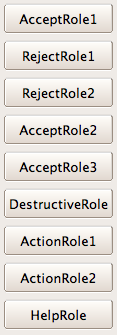
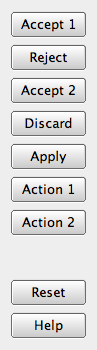
p4i integration Integrate 227571 from 4.2 to main: Fixes:    Update button box stuff for KDE. Details:  From looking at various things it seems that we need to add a couple of more roles to make things jive more with KDE. In the general case we should be pretty good. Updated docs (screenshots) and t
[git-p4: depot-paths = "//depot/qt/main/": change = 227572]

diff --git a/src/gui/widgets/qdialogbuttonbox.cpp b/src/gui/widgets/qdialogbuttonbox.cpp
@@ -113,20 +113,18 @@
 
 enum { AcceptRole = QDialogButtonBox::AcceptRole, RejectRole = QDialogButtonBox::RejectRole,
        DestructiveRole = QDialogButtonBox::DestructiveRole,
-       ActionRole = QDialogButtonBox::ActionRole, HelpRole = QDialogButtonBox::HelpRole, AlternateRole,
-       Stretch = 0x10000000, EOL = 0x40000000, Reverse = 0x80000000 };
+       ActionRole = QDialogButtonBox::ActionRole, HelpRole = QDialogButtonBox::HelpRole,
+       ApplyRole = QDialogButtonBox::ApplyRole, ResetRole = QDialogButtonBox::ResetRole,
+       Stretch = 0x10000000,  AlternateRole = 0x20000000, EOL = 0x40000000, Reverse = 0x80000000 };
 
 static QDialogButtonBox::ButtonRole roleFor(QDialogButtonBox::StandardButton button)
 {
     switch (button) {
     case QDialogButtonBox::Ok:
-        return QDialogButtonBox::AcceptRole;
     case QDialogButtonBox::Save:
-        return QDialogButtonBox::AcceptRole;
     case QDialogButtonBox::Open:
         return QDialogButtonBox::AcceptRole;
     case QDialogButtonBox::Cancel:
-        return QDialogButtonBox::RejectRole;
     case QDialogButtonBox::Close:
         return QDialogButtonBox::RejectRole;
     case QDialogButtonBox::Discard:
@@ -134,66 +132,65 @@ static QDialogButtonBox::ButtonRole roleFor(QDialogButtonBox::StandardButton but
     case QDialogButtonBox::Help:
         return QDialogButtonBox::HelpRole;
     case QDialogButtonBox::Apply:
-        return QDialogButtonBox::ActionRole;
+        return QDialogButtonBox::ApplyRole;
+    case QDialogButtonBox::RestoreDefaults:
+        return QDialogButtonBox::ResetRole;
     case QDialogButtonBox::Reset:
-        return QDialogButtonBox::ActionRole;
+        return QDialogButtonBox::ResetRole;
     case QDialogButtonBox::Yes:
-        return QDialogButtonBox::AcceptRole;
     case QDialogButtonBox::YesToAll:
         return QDialogButtonBox::AcceptRole;
     case QDialogButtonBox::No:
-        return QDialogButtonBox::RejectRole;
     case QDialogButtonBox::NoToAll:
         return QDialogButtonBox::RejectRole;
     case QDialogButtonBox::SaveAll:
-        return QDialogButtonBox::AcceptRole;
     case QDialogButtonBox::Abort:
-        return QDialogButtonBox::AcceptRole;
     case QDialogButtonBox::Retry:
         return QDialogButtonBox::AcceptRole;
     case QDialogButtonBox::Ignore:
         return QDialogButtonBox::RejectRole;
-    default:
-        return QDialogButtonBox::InvalidRole;
+    case QDialogButtonBox::NoButton:
+        ;
     }
+    return QDialogButtonBox::InvalidRole;
 }
 
-static const int layouts[2][5][9] =
+static const int layouts[2][5][11] =
 {
     // Qt::Horizontal
     {
         // WinLayout
-        { Stretch, AcceptRole, AlternateRole, DestructiveRole, RejectRole, ActionRole, HelpRole, EOL, EOL },
+        { ResetRole, Stretch, AcceptRole, AlternateRole, DestructiveRole, RejectRole, ApplyRole, ActionRole, HelpRole, EOL, EOL },
 
         // MacLayout
-        { HelpRole, ActionRole, Stretch, DestructiveRole | Reverse, AlternateRole | Reverse, RejectRole | Reverse, AcceptRole | Reverse, EOL },
+        { HelpRole, ResetRole, ApplyRole, ActionRole, Stretch, DestructiveRole | Reverse, AlternateRole | Reverse, RejectRole | Reverse, AcceptRole | Reverse, EOL },
 
         // KdeLayout
-        { HelpRole, DestructiveRole, Stretch, ActionRole, AcceptRole, AlternateRole, RejectRole, EOL, EOL },
+        { HelpRole, ResetRole, Stretch, ActionRole, AcceptRole, AlternateRole, ApplyRole, DestructiveRole, RejectRole, EOL, EOL },
 
         // GnomeLayout
-        { HelpRole, Stretch, ActionRole | Reverse, DestructiveRole | Reverse, AlternateRole | Reverse, RejectRole | Reverse, AcceptRole | Reverse, EOL, EOL },
+        { HelpRole, ResetRole, Stretch, ActionRole | Reverse, ApplyRole | Reverse, DestructiveRole | Reverse, AlternateRole | Reverse, RejectRole | Reverse, AcceptRole | Reverse, EOL, EOL },
 
         // Mac modeless
-        { ActionRole, Stretch, HelpRole, EOL, EOL, EOL, EOL, EOL, EOL }
+        { ResetRole, ApplyRole, ActionRole, Stretch, HelpRole, EOL, EOL, EOL, EOL, EOL, EOL }
     },
 
     // Qt::Vertical
     {
         // WinLayout
-        { ActionRole, AcceptRole, AlternateRole, DestructiveRole, RejectRole, HelpRole, Stretch, EOL, EOL },
+        { ActionRole, AcceptRole, AlternateRole, DestructiveRole, RejectRole, ApplyRole, ResetRole, HelpRole, Stretch, EOL, EOL },
 
         // MacLayout
-        { AcceptRole, RejectRole, AlternateRole, DestructiveRole, Stretch, ActionRole, HelpRole, EOL },
+        { AcceptRole, RejectRole, AlternateRole, DestructiveRole, Stretch, ActionRole, ApplyRole, ResetRole, HelpRole, EOL },
 
         // KdeLayout
-        { ActionRole, Stretch, AcceptRole, AlternateRole, DestructiveRole, RejectRole, HelpRole, EOL, EOL },
+        { AcceptRole, AlternateRole, ApplyRole, ActionRole, Stretch, ResetRole, DestructiveRole, RejectRole, HelpRole, EOL, EOL },
 
         // GnomeLayout
-        { AcceptRole, RejectRole, AlternateRole, DestructiveRole, ActionRole, Stretch, HelpRole, EOL, EOL },
+        { AcceptRole, RejectRole, AlternateRole, DestructiveRole, ApplyRole, ActionRole, Stretch, ResetRole, HelpRole, EOL, EOL },
 
         // Mac modeless
-        { ActionRole, Stretch, HelpRole, EOL, EOL, EOL, EOL, EOL, EOL }
+        { ActionRole, ApplyRole, ResetRole, Stretch, HelpRole, EOL, EOL, EOL, EOL, EOL, EOL }
     }
 };
 
@@ -322,6 +319,8 @@ void QDialogButtonBoxPrivate::layoutButtons()
         case RejectRole:
         case DestructiveRole:
         case ActionRole:
+        case ApplyRole:
+        case ResetRole:
         case HelpRole: {
             const QList<QAbstractButton *> &list = buttonLists[role];
 
@@ -428,9 +427,11 @@ QPushButton *QDialogButtonBoxPrivate::createButton(QDialogButtonBox::StandardBut
     case QDialogButtonBox::Ignore:
         buttonText = QDialogButtonBox::tr("Ignore");
         break;
-    default:
-        icon = 0;
+    case QDialogButtonBox::RestoreDefaults:
+        buttonText = QDialogButtonBox::tr("Restore Defaults");
         break;
+    case QDialogButtonBox::NoButton:
+        ;
     }
 
     if (buttonText.isEmpty())
@@ -527,7 +528,11 @@ QDialogButtonBox::~QDialogButtonBox()
     \value ActionRole Clicking the button causes changes to the elements in
            the dialog (e.g. reset all the values or read defaults).
     \value HelpRole The button can be clicked to request help.
+    \value ApplyRole The button applies current changes.
+    \value ResetRole The button resets the dialog's fields to default values.
     \omitvalue NRoles
+
+    \sa StandardButton
 */
 
 /*!
@@ -543,8 +548,9 @@ QDialogButtonBox::~QDialogButtonBox()
     \value Close A "Close" button defined with the \l RejectRole.
     \value Discard A "Discard" or "Don't Save" button, depending on the platform,
                     defined with the \l DestructiveRole.
-    \value Apply An "Apply" button defined with the \l ActionRole.
-    \value Reset A "Reset" button defined with the \l ActionRole.
+    \value Apply An "Apply" button defined with the \l ApplyRole.
+    \value Reset A "Reset" button defined with the \l ResetRole.
+    \value RestoreDefaults A "Restore Defaults" button defined with the \l ResetRole.
     \value Help A "Help" button defined with the \l HelpRole.
     \value SaveAll A "Save All" button defined with the \l AcceptRole
     \value Yes A "Yes" button defined with the \l AcceptRole
@@ -555,11 +561,12 @@ QDialogButtonBox::~QDialogButtonBox()
     \value Retry A "Retry" button defined with the \l AcceptRole
     \value Ignore An "Ignore" button defined with the \l AcceptRole
     \omitvalue NoButtons
+
+    \sa ButtonRole
 */
 
 /*!
     \enum QDialogButtonBox::ButtonLayout
-    \internal
 
     This enum describes the layout policy to be used when arranging the buttons
     contained in the button box.

diff --git a/tests/auto/qdialogbuttonbox/tst_qdialogbuttonbox.cpp b/tests/auto/qdialogbuttonbox/tst_qdialogbuttonbox.cpp
@@ -403,10 +403,10 @@ void tst_QDialogButtonBox::testStandardButtonMapping_data()
                                                     << QDialogButtonBox::tr("Discard");
     }
     QTest::newRow("QDialogButtonBox::Apply") << QDialogButtonBox::Apply
-                                             << QDialogButtonBox::ActionRole
+                                             << QDialogButtonBox::ApplyRole
                                              << QDialogButtonBox::tr("Apply");
     QTest::newRow("QDialogButtonBox::Reset") << QDialogButtonBox::Reset
-                                             << QDialogButtonBox::ActionRole
+                                             << QDialogButtonBox::ResetRole
                                              << QDialogButtonBox::tr("Reset");
     QTest::newRow("QDialogButtonBox::Help") << QDialogButtonBox::Help
                                             << QDialogButtonBox::HelpRole

diff --git a/src/gui/widgets/qdialogbuttonbox.h b/src/gui/widgets/qdialogbuttonbox.h
@@ -38,6 +38,8 @@ public:
         DestructiveRole,
         ActionRole,
         HelpRole,
+        ResetRole,
+        ApplyRole,
         NRoles
     };
 
@@ -59,7 +61,8 @@ public:
         Discard            = 0x00002000,
         Help               = 0x00004000,
         Apply              = 0x00008000,
-        Reset              = 0x00010000
+        Reset              = 0x00010000,
+        RestoreDefaults    = 0x00020000
     };
 
     Q_DECLARE_FLAGS(StandardButtons, StandardButton)
